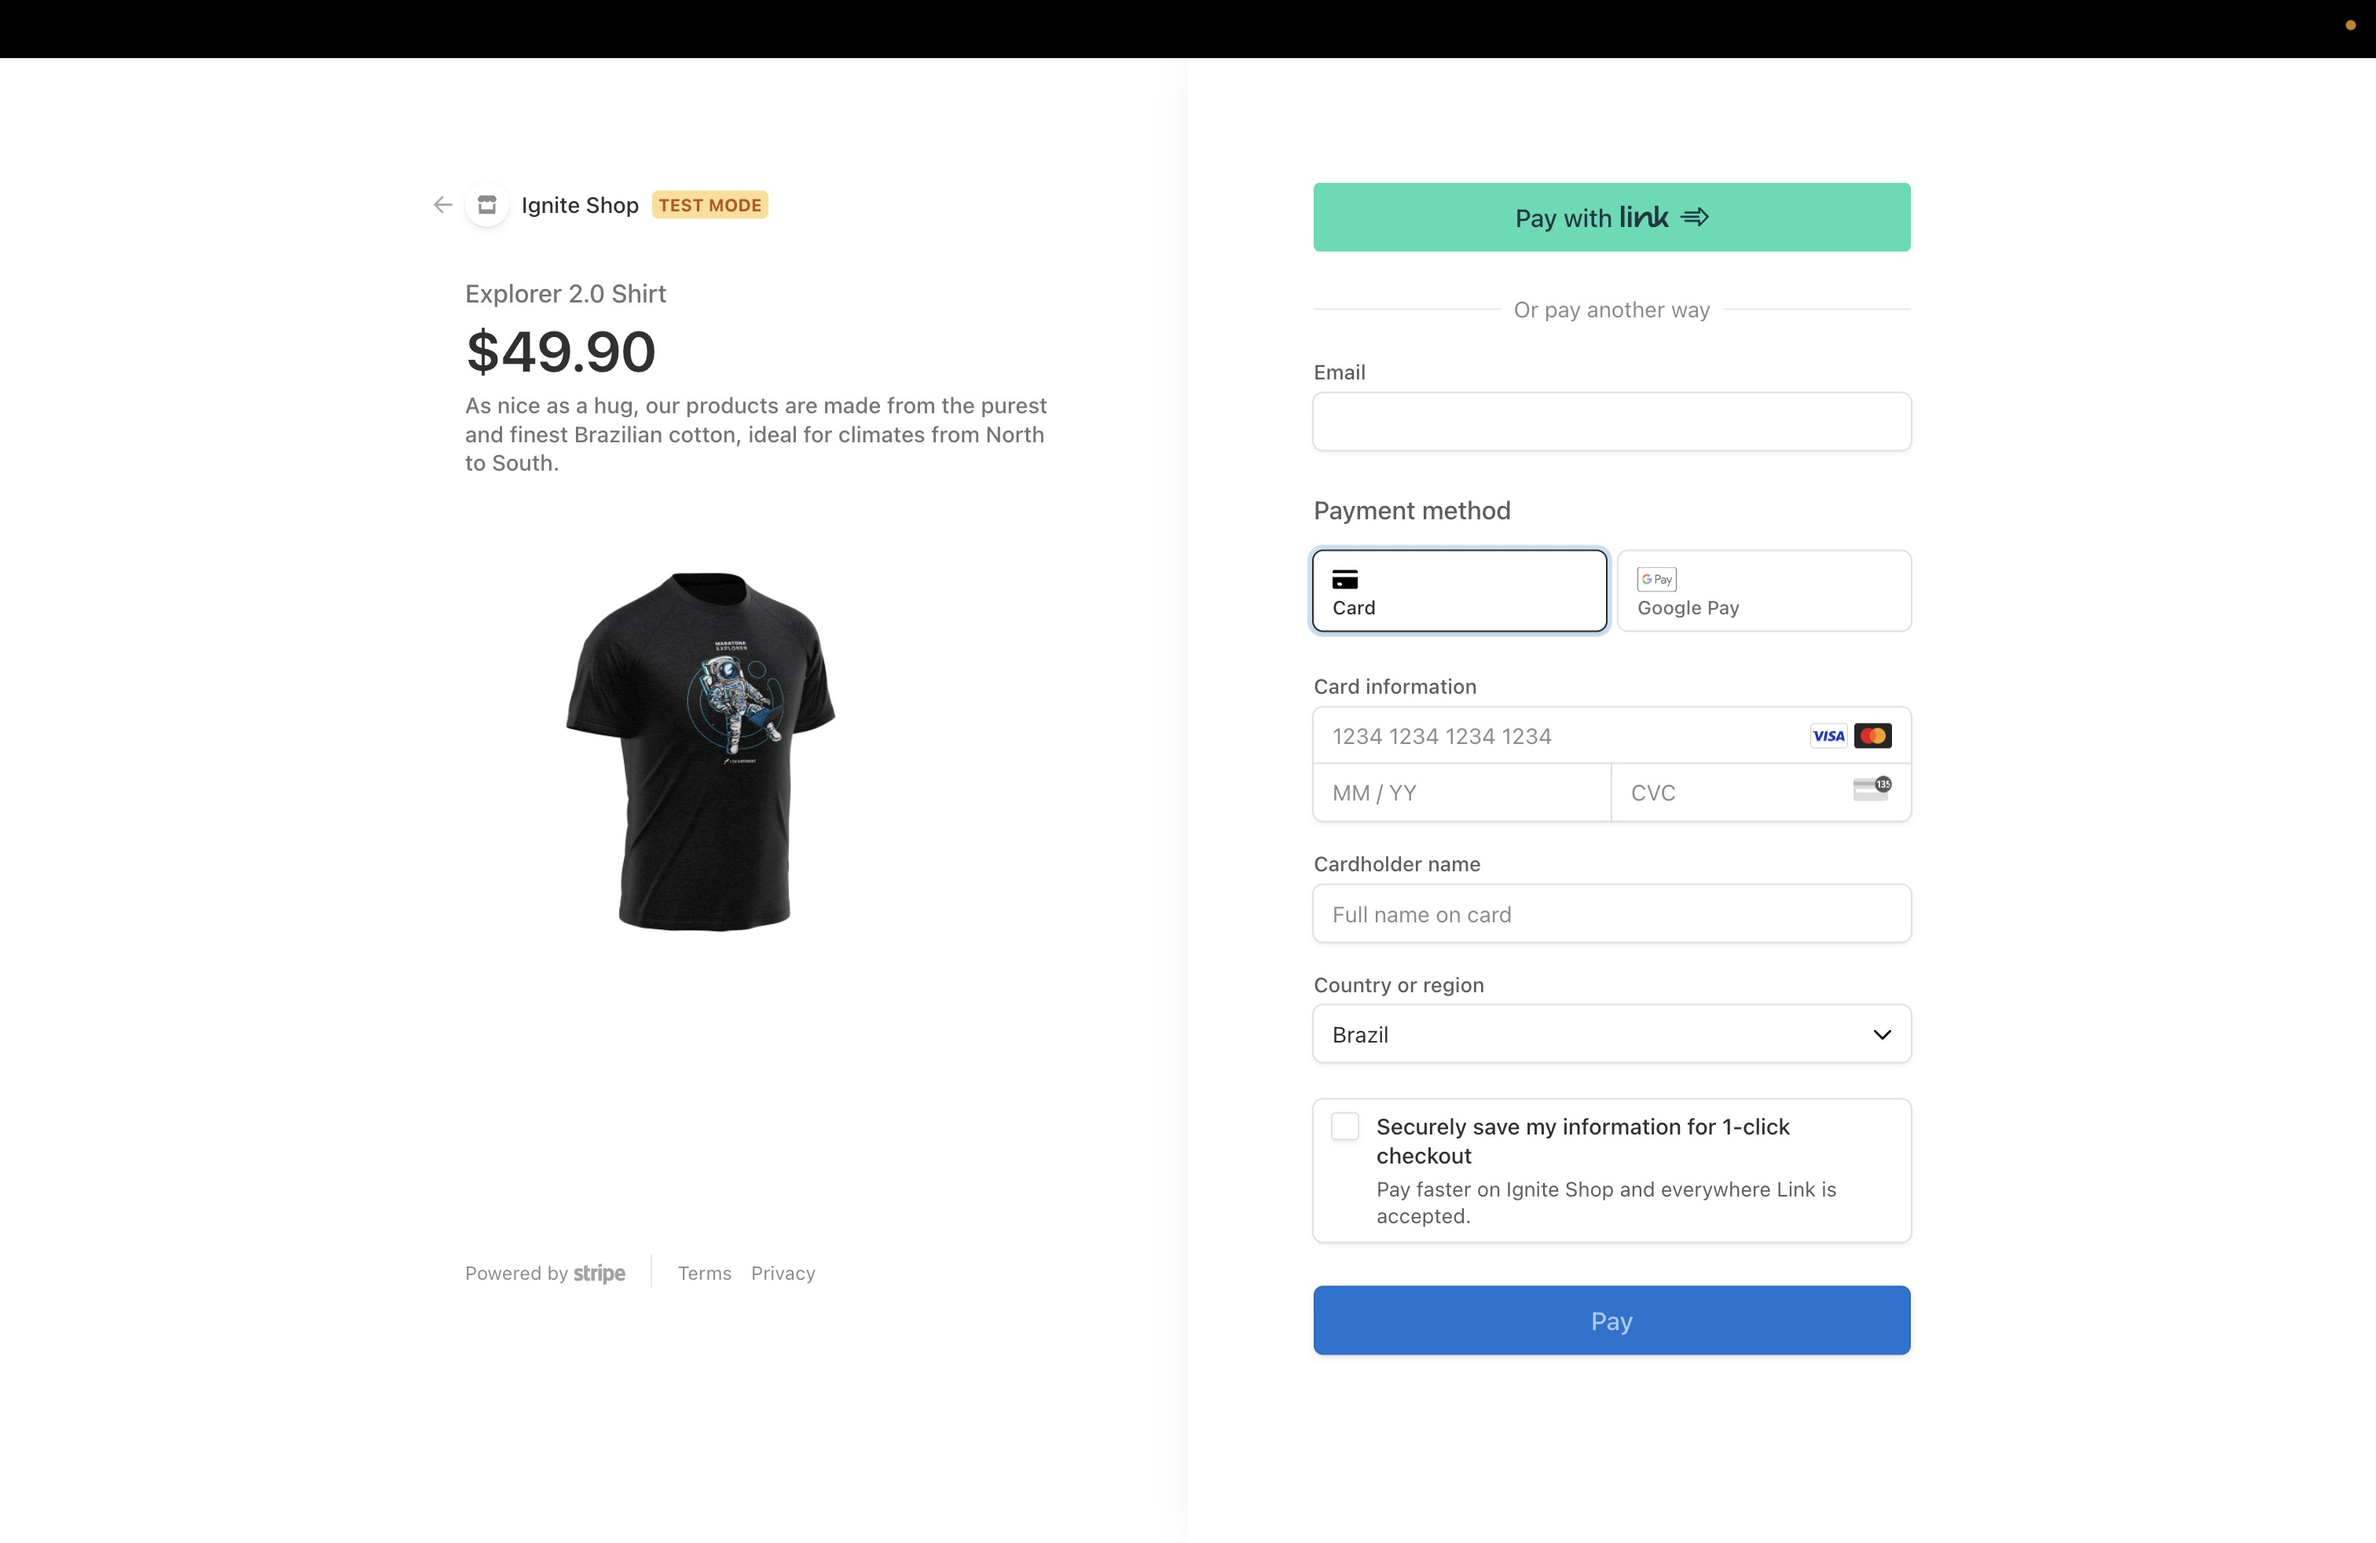
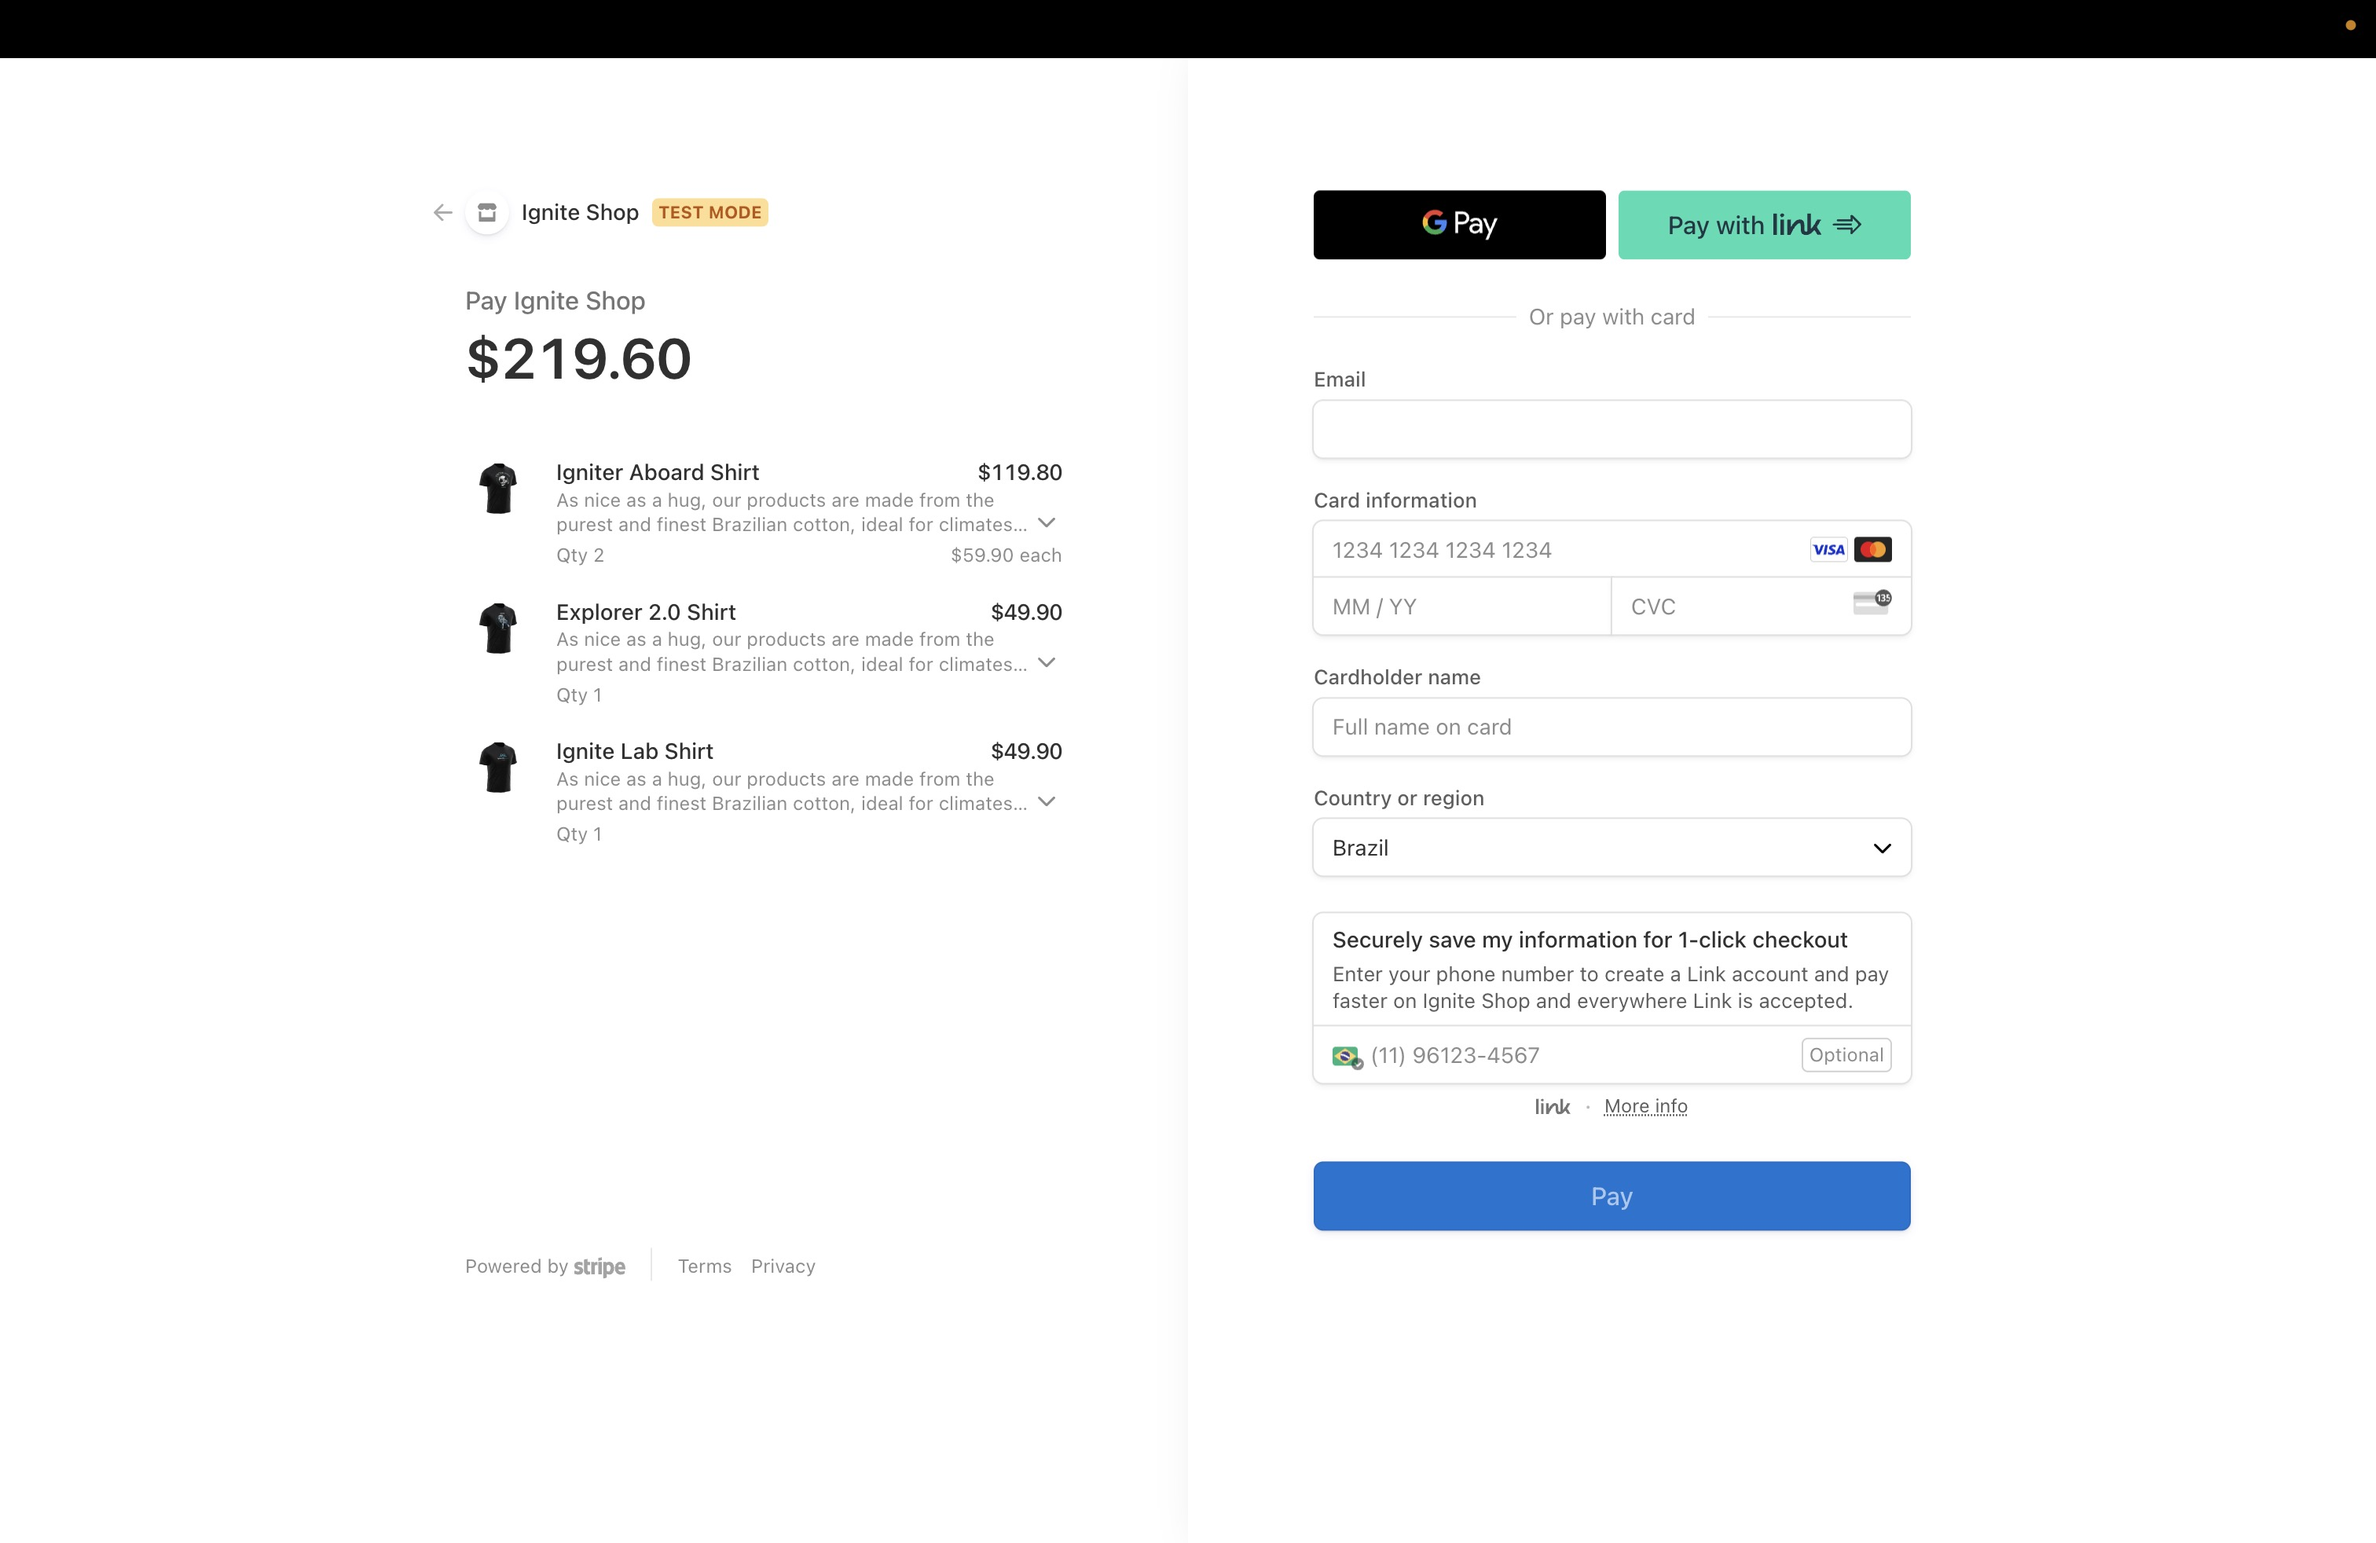
docs: update readme

diff --git a/README.md b/README.md
@@ -1,12 +1,14 @@
 # Ignite Shop - Web
 
 ## The App
-A e-Commerce type Web App made with Next.js that integrates the best practices of SSR and 3rd party API data fetching.
+A e-Commerce type Web App made with Next.js that integrates the best practices of SSR and 3rd party API data fetching.<br>
+Cart feature integrated with Stripe API for product checkout and success page after order confirmed.
 
 ### Previews
 <div style="display: flex; gap: 0.5rem; flex-direction: column">
   <img alt="" title="" src="./assets/screenshots/home.jpg">
   <img alt="" title="" src="./assets/screenshots/product.jpg">
+  <img alt="" title="" src="./assets/screenshots/cart.jpg">
   <img alt="" title="" src="./assets/screenshots/checkout.jpg">
   <img alt="" title="" src="./assets/screenshots/purchase-done.jpg">
 </div>
@@ -16,8 +18,9 @@ A e-Commerce type Web App made with Next.js that integrates the best practices o
 2. Typescript
 3. Tailwind CSS
 4. Stripe
-5. Axios
-6. Zod
+5. Radix UI
+6. Axios
+7. Zod
 
 ### Steps
 1. Clone this repository;
